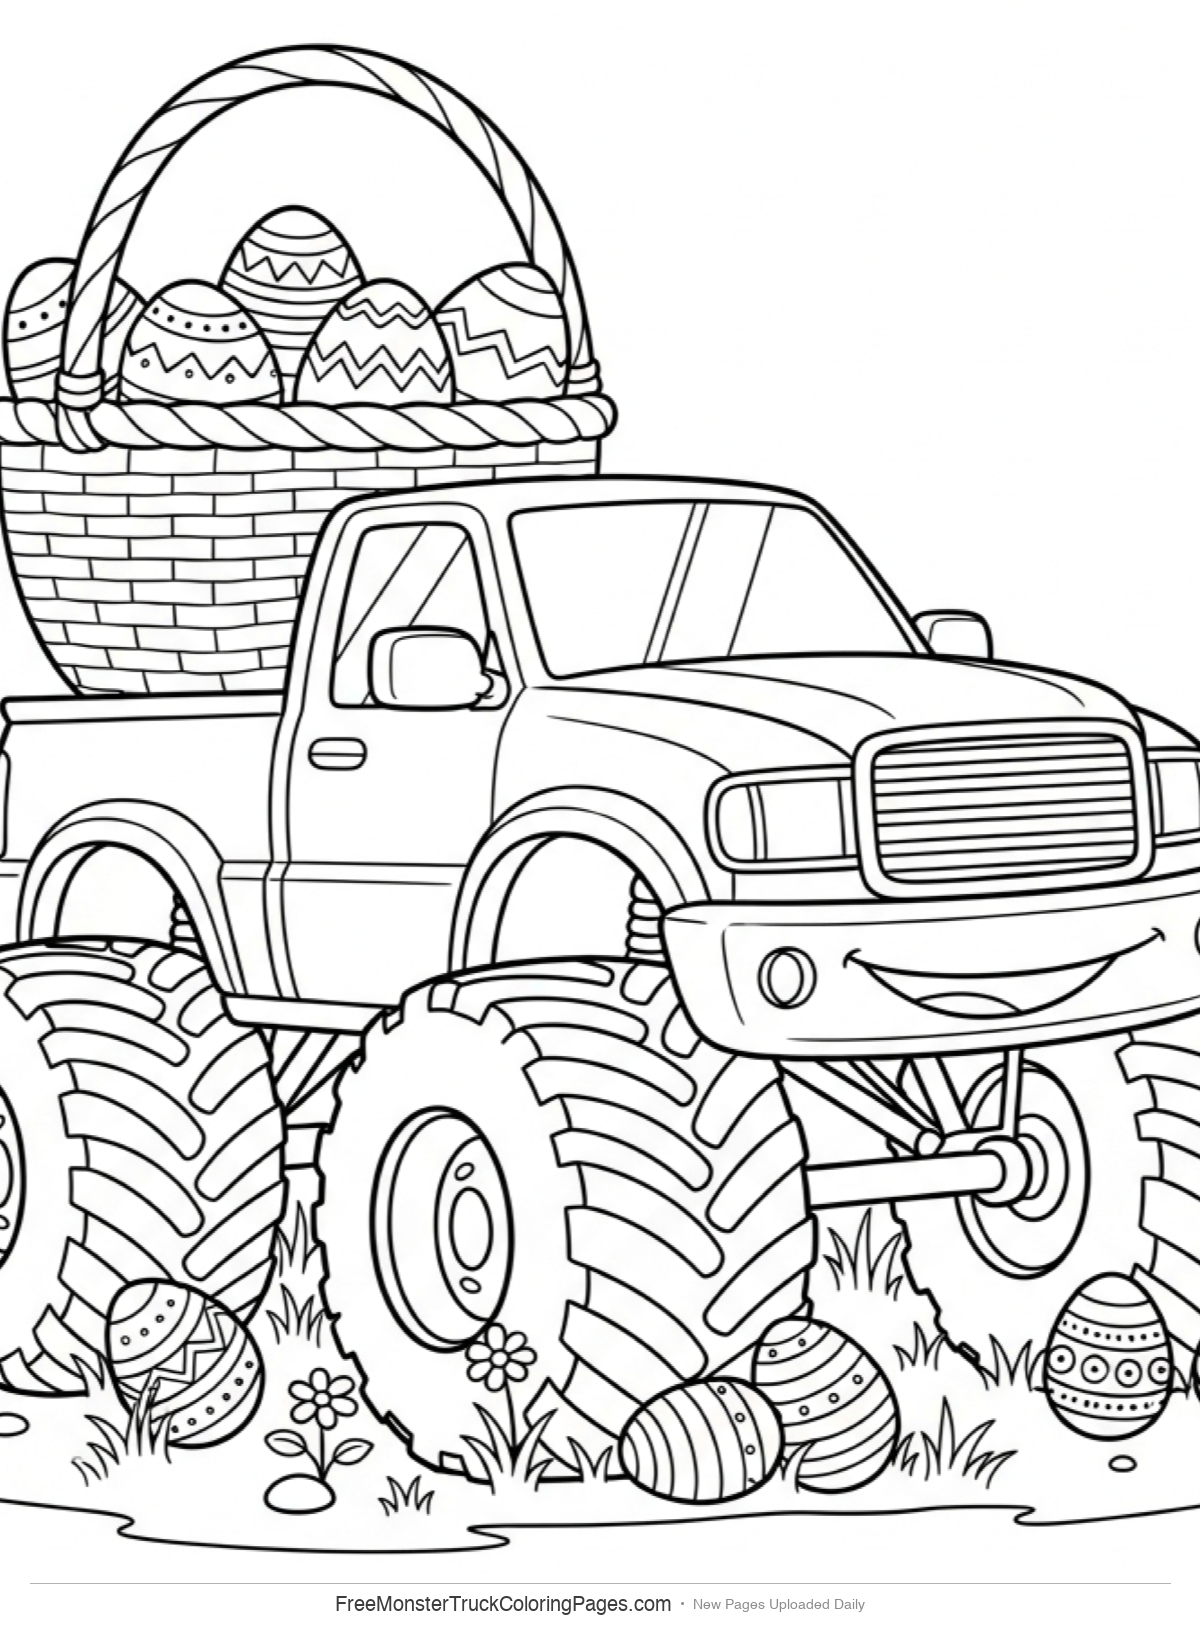
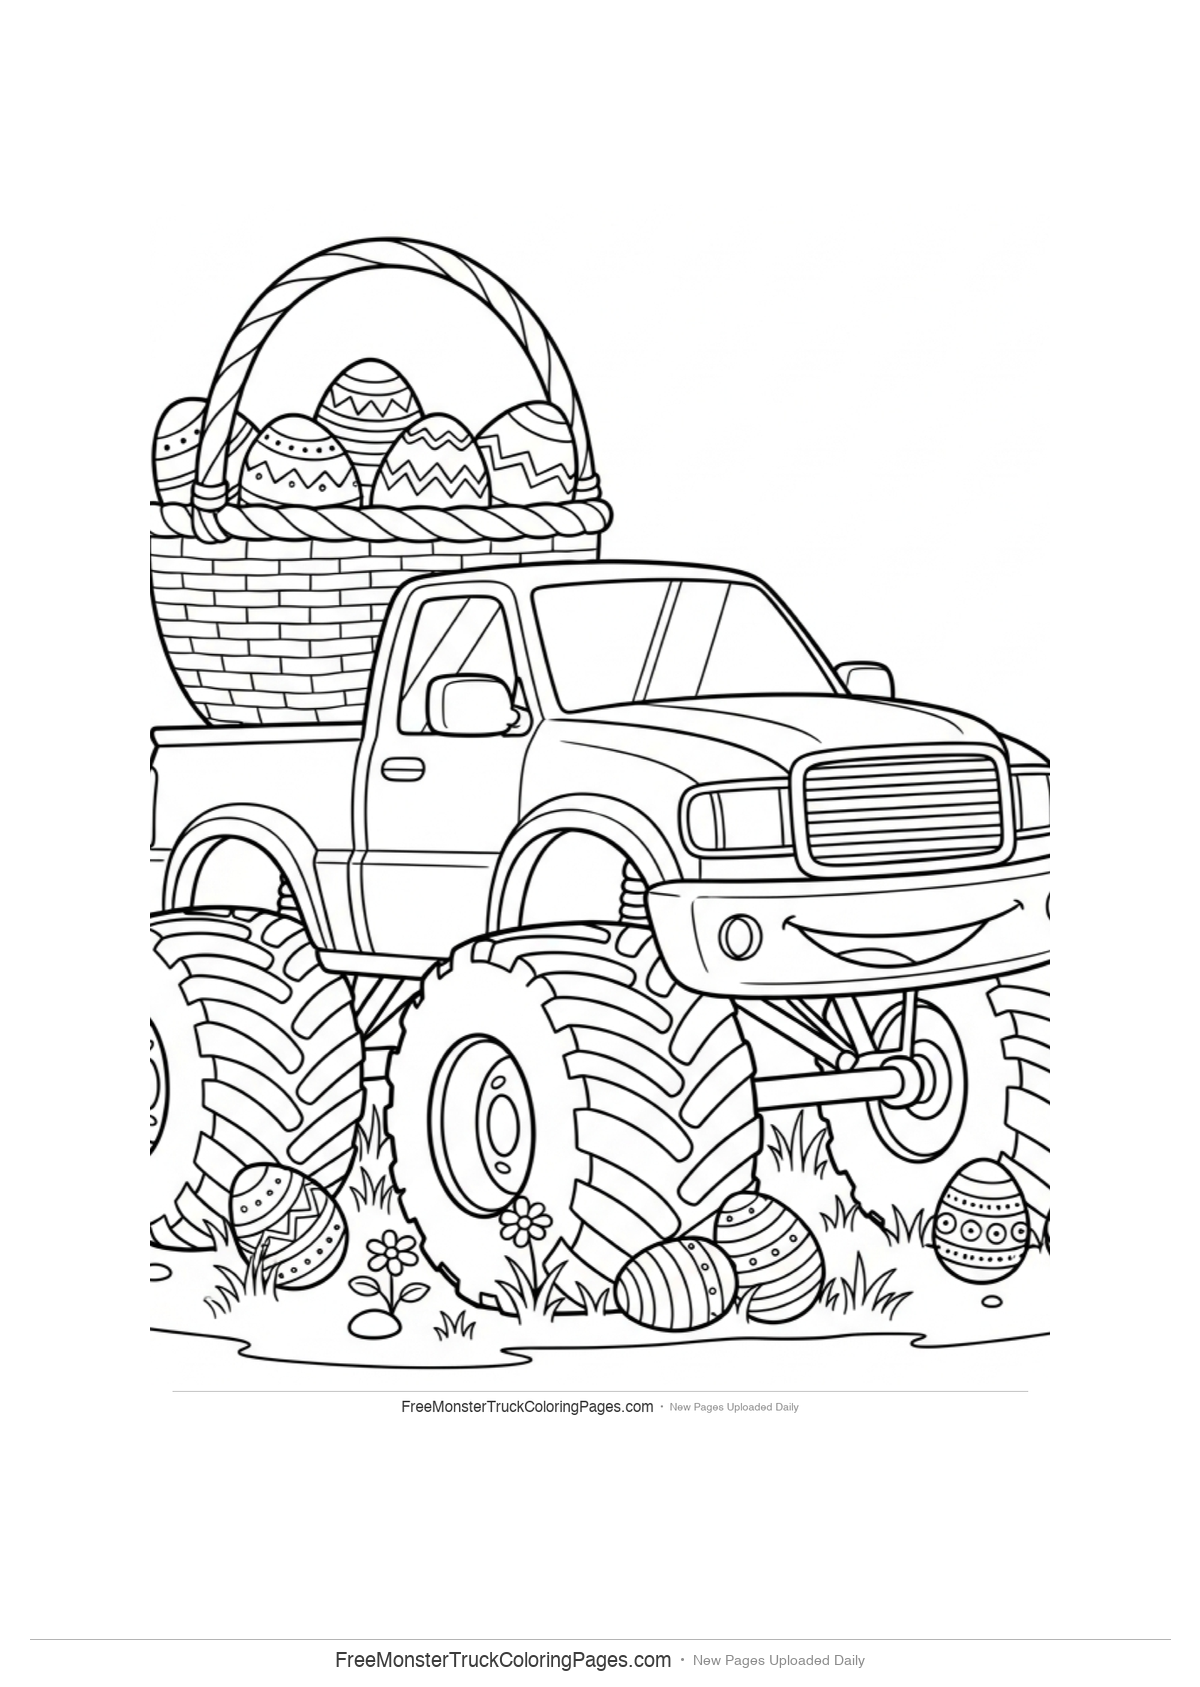
Fix edge cutoff QC: stricter checks + auto-shrink fix
- edge-check.py: increased margin to 8% (from 5%), lowered tolerance to 2% (from 3%)
- --fix mode: auto-shrinks image to 75% and centers on white canvas
- Autopilot now runs edge check with --fix (auto-corrects instead of just failing)
- Fixed Easter Egg Hunter image: was cut off on all 4 sides, now properly framed
- Max QC attempts increased to 5

diff --git a/src/lib/autopilot.ts b/src/lib/autopilot.ts
@@ -198,40 +198,19 @@ async function qcImage(imagePath: string): Promise<{ pass: boolean; score: numbe
 function pixelEdgeCheck(imagePath: string): boolean {
   const pyScript = path.join(process.cwd(), "scripts", "edge-check.py");
 
-  // Create a minimal edge check script if it doesn't exist
-  if (!fs.existsSync(pyScript)) {
-    fs.writeFileSync(pyScript, `
-import sys, json
-from PIL import Image
-
-img = Image.open(sys.argv[1]).convert("L")
-w, h = img.size
-# Downscale for speed
-img = img.resize((200, int(200 * h / w)))
-w, h = img.size
-mx, my = max(int(w * 0.05), 3), max(int(h * 0.05), 3)
-edges = {
-    "top": [(x, y) for y in range(my) for x in range(w)],
-    "bottom": [(x, y) for y in range(h - my, h) for x in range(w)],
-    "left": [(x, y) for x in range(mx) for y in range(h)],
-    "right": [(x, y) for x in range(w - mx, w) for y in range(h)],
-}
-for name, pixels in edges.items():
-    dark = sum(1 for x, y in pixels if img.getpixel((x, y)) < 128)
-    if dark / len(pixels) > 0.03:
-        print(f"FAIL:{name}")
-        sys.exit(1)
-print("PASS")
-`);
-  }
-
   try {
-    const result = execSync(`python3 "${pyScript}" "${imagePath}"`, {
+    // Run with --fix: if edges have content, auto-shrink to 75% with white padding
+    const result = execSync(`python3 "${pyScript}" "${imagePath}" --fix`, {
       encoding: "utf-8",
-      timeout: 15000,
+      timeout: 30000,
     }).trim();
-    return result === "PASS";
-  } catch {
+    const lines = result.split("\n");
+    const lastLine = lines[lines.length - 1];
+    console.log(`[autopilot] Edge check: ${result.replace(/\n/g, " | ")}`);
+    return lastLine === "PASS" || lastLine === "PASS_AFTER_FIX";
+  } catch (err) {
+    const output = err instanceof Error && "stdout" in err ? String((err as { stdout: unknown }).stdout) : "";
+    console.log(`[autopilot] Edge check failed: ${output}`);
     return false;
   }
 }
@@ -301,7 +280,7 @@ export async function generateAndPublishPage(): Promise<PipelineResult> {
   let qcPassed = false;
   let attempts = 0;
   let lastScore = 0;
-  const maxAttempts = 3;
+  const maxAttempts = 5;
 
   while (!qcPassed && attempts < maxAttempts) {
     attempts++;

diff --git a/scripts/edge-check.py b/scripts/edge-check.py
@@ -1,0 +1,91 @@
+"""
+Pixel-level edge cutoff detector + auto-fix.
+Checks outer border strips for dark content.
+If --fix is passed, shrinks the image and adds white padding.
+
+Usage:
+  python3 scripts/edge-check.py image.png          # check only
+  python3 scripts/edge-check.py image.png --fix     # check + auto-fix if failing
+"""
+import sys
+from PIL import Image
+
+MARGIN_PERCENT = 8   # Check outer 8% on each side
+DARK_THRESHOLD = 128
+MAX_DARK_RATIO = 0.02  # 2% tolerance
+
+
+def check_edges(img_path):
+    img = Image.open(img_path).convert("L")
+    w, h = img.size
+    scale = 300 / max(w, h)
+    img = img.resize((int(w * scale), int(h * scale)))
+    w, h = img.size
+
+    mx = max(int(w * MARGIN_PERCENT / 100), 4)
+    my = max(int(h * MARGIN_PERCENT / 100), 4)
+
+    edges = {
+        "top": [(x, y) for y in range(my) for x in range(w)],
+        "bottom": [(x, y) for y in range(h - my, h) for x in range(w)],
+        "left": [(x, y) for x in range(mx) for y in range(h)],
+        "right": [(x, y) for x in range(w - mx, w) for y in range(h)],
+    }
+
+    failures = []
+    for name, pixels in edges.items():
+        dark = sum(1 for x, y in pixels if img.getpixel((x, y)) < DARK_THRESHOLD)
+        ratio = dark / len(pixels) if pixels else 0
+        if ratio > MAX_DARK_RATIO:
+            failures.append((name, ratio))
+
+    return failures
+
+
+def fix_image(img_path):
+    """Shrink image to 75% and center on white canvas — guarantees margins."""
+    img = Image.open(img_path).convert("RGB")
+    w, h = img.size
+
+    new_w = int(w * 0.75)
+    new_h = int(h * 0.75)
+    shrunk = img.resize((new_w, new_h), Image.LANCZOS)
+
+    canvas = Image.new("RGB", (w, h), (255, 255, 255))
+    offset_x = (w - new_w) // 2
+    offset_y = (h - new_h) // 2
+    canvas.paste(shrunk, (offset_x, offset_y))
+    canvas.save(img_path, "PNG")
+
+
+if __name__ == "__main__":
+    if len(sys.argv) < 2:
+        print("Usage: python3 edge-check.py <image.png> [--fix]")
+        sys.exit(2)
+
+    img_path = sys.argv[1]
+    do_fix = "--fix" in sys.argv
+
+    failures = check_edges(img_path)
+
+    if not failures:
+        print("PASS")
+        sys.exit(0)
+
+    for name, ratio in failures:
+        print(f"FAIL:{name}:{ratio*100:.1f}%")
+
+    if do_fix:
+        print("FIX:shrinking to 75% with white padding")
+        fix_image(img_path)
+        # Re-check after fix
+        failures2 = check_edges(img_path)
+        if not failures2:
+            print("PASS_AFTER_FIX")
+            sys.exit(0)
+        else:
+            for name, ratio in failures2:
+                print(f"STILL_FAIL:{name}:{ratio*100:.1f}%")
+            sys.exit(1)
+
+    sys.exit(1)
